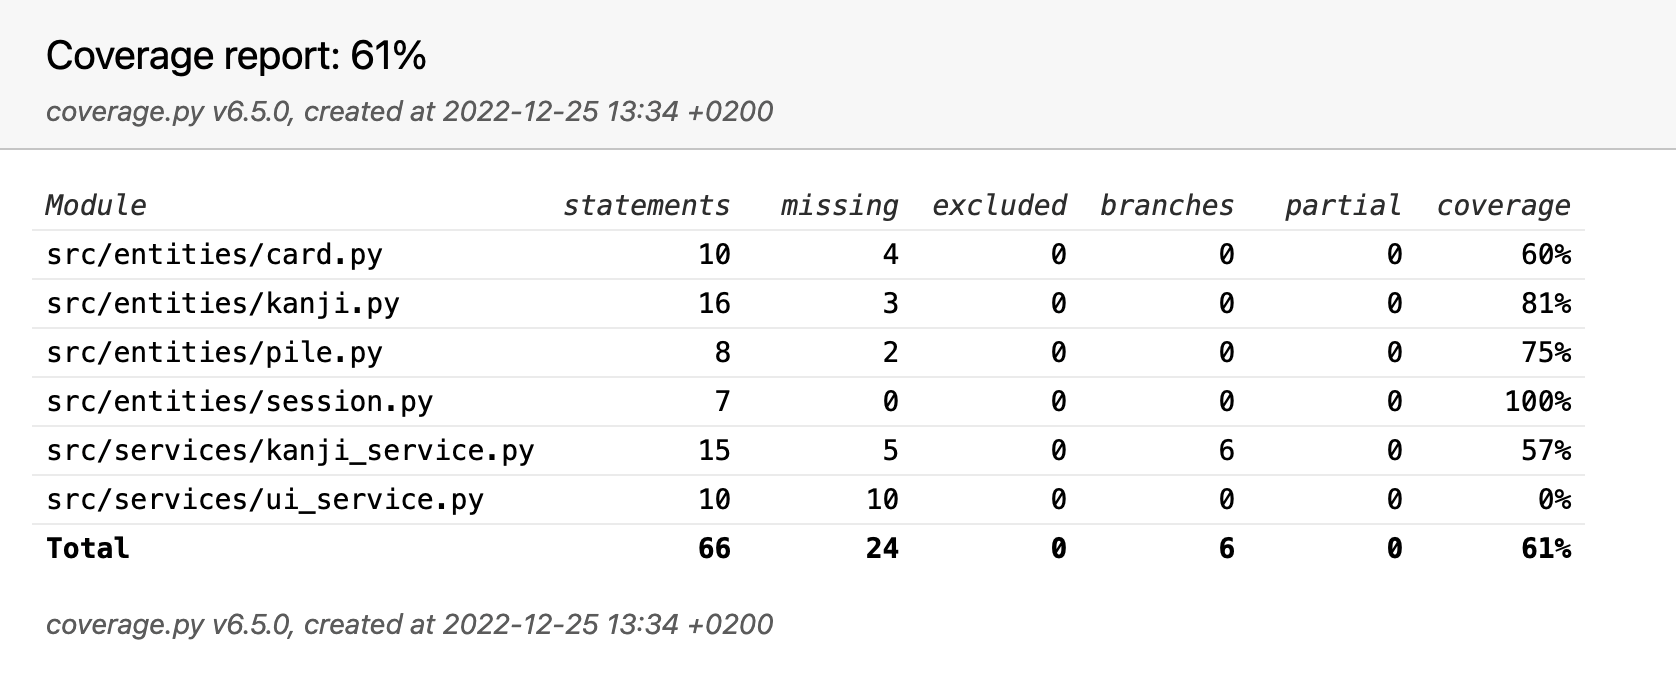
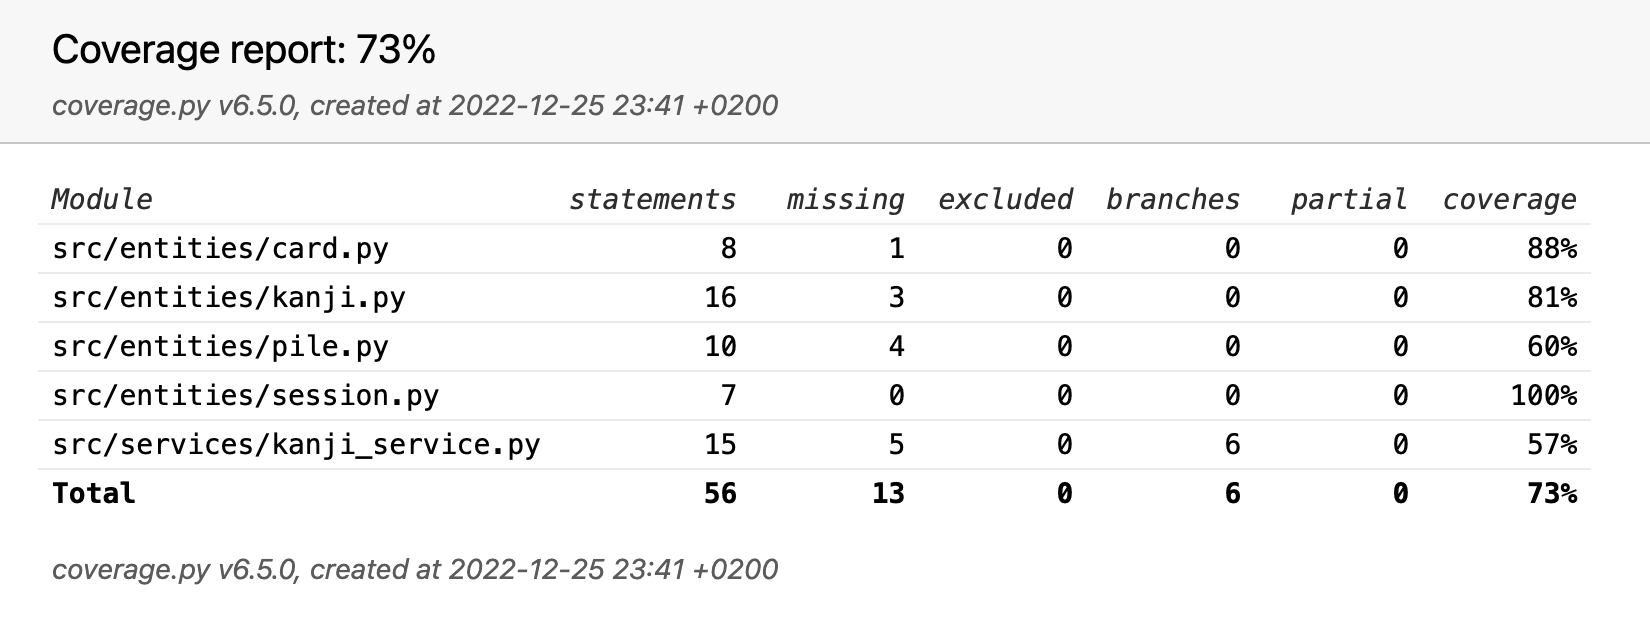
Update test documentation

diff --git a/kanji-app/documentation/test_documentation.md b/kanji-app/documentation/test_documentation.md
@@ -6,16 +6,16 @@ The program has been tested by unit and integration tests, and by manual system-
 
 ### Application logic
 
-The `KanjiService` class responsible of to the application logic is tested with the [TestKanjiService](https://github.com/johannalehto/ot-harjoitustyo/blob/main/kanji-app/src/tests/kanji_service_test.py) test class. The KanjiService-object is utilizes injected dependencies, and for the test a stub class `CardStub` was created to provide mock entities for the service class.
+The `KanjiService` class responsible of to the application logic is tested with the [TestKanjiService](https://github.com/johannalehto/ot-harjoitustyo/blob/main/kanji-app/src/tests/kanji_service_test.py) test class. The KanjiService-object utilizes injected dependencies, and for the test a stub class `CardStub` was created to provide mock entities for the service class.
 
-<!-- ### Entities
+### Entities
 
-The classes responsible of holding the different entities are tested separately.  -->
+The classes responsible of holding the different entities are tested separately. 
 
 
 ### Test coverage
 
-The application has a branch coverage of 61%, excluding the user interface layer.
+The application has a branch coverage of 73%, excluding the user interface layer.
 
 ![](./img/test-coverage.png)
 
@@ -24,19 +24,14 @@ The application has a branch coverage of 61%, excluding the user interface layer
 
 System testing of the application has been performed manually.
 
-### Installation and configuration
-
-The application has been retrieved and tested as described in the [user manual](./user_manual.md) for both macOS and Linux environments. 
-
 
 ### Functionalities
 
-All the functionalities listed in the [software specification](./software_specification.md) and in the user manual have been tested. 
+All the functionalities listed in the [software specification](./software_specification.md) and in the [user manual](./user_manual.md) have been tested. 
 
 ## Quality issues remaining in the application
 
-The application currently does not provide meaningful error messages in the following situations:
+- Entities are not fully tested
+- Application logic is not fully tested
+- The application currently does not provide meaningful error messages in the situations such as user trying to input the Japanese reading to the review, when English is required
 
-- 
--
--
